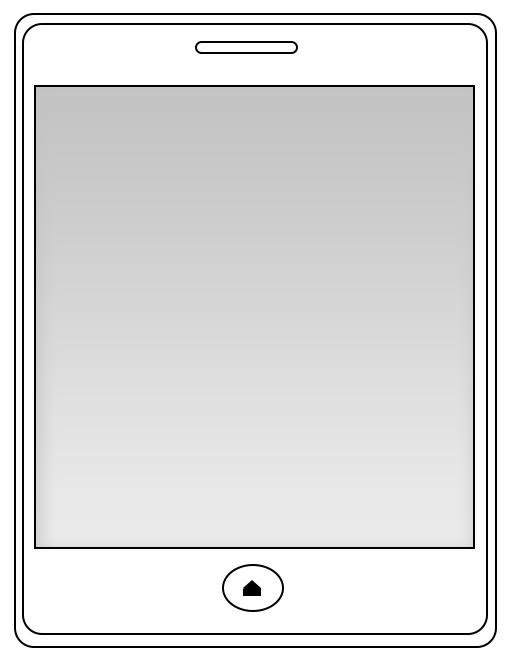
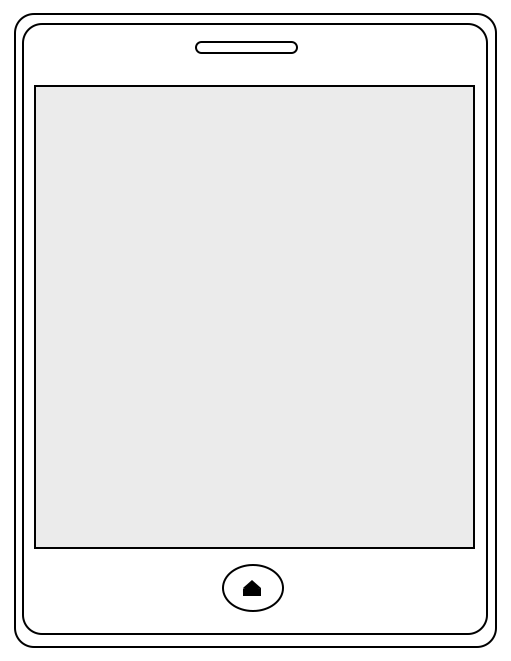
added mobile and tablet to device

Changed region(s): [[0.0587, 0.121, 0.9393, 0.6657]]

diff --git a/js/search.js b/js/search.js
@@ -4,7 +4,7 @@
                                "button bar", "search", "section title", "checkbox", 
                                "radio button", "combobox", "accordion", "tab bar", "link bar",
                                "vertical tab", "table", "format bar", "menu", "text box", 
-                               "date picker", "list", "date stepper", 'mobile'];
+                               "date picker", "list", "date stepper", 'mobile', 'tablet'];
 
         var associatedDivIds = new Array();
         associatedDivIds["button"] = "drag_button";
@@ -29,6 +29,7 @@
         associatedDivIds["list"] = "drag_list";
         associatedDivIds["date stepper"] = "drag_date_stepper";
         associatedDivIds["mobile"] = "drag_mobile";
+        associatedDivIds["tablet"] = "drag_tablet";
 
 
          var selected = "";
@@ -36,6 +37,7 @@
          // Determine if the sequence the user entered is in the array
          function findSequence(s)
          {
+            s = s.toLowerCase();
          	if( s.charAt(0) === " " || s === "" ) 
          		return "";
 

diff --git a/wireframe.html b/wireframe.html
@@ -332,12 +332,21 @@
             
             <!-- Mobile -->
             <div id="drag_mobile" class="draggable element1" draggable="true">
-            <div class="resizeable" data-default-width="150" data-default-height="150" data-category="all image">
+            <div class="resizeable" data-default-width="150" data-default-height="150" data-category="all device">
                 <div id="libMobile" data-lib-width="150" data-lib-height="150">
                 </div>
                 <div class="title">Mobile</div>
             </div>
               </div>
+
+             <!-- Tablet -->
+             <div id="drag_tablet" class="draggable element1" draggable="true">
+             <div class="resizeable" data-default-width="150" data-default-height="150" data-category="all device">
+                 <div id="libTablet" data-lib-width="150" data-lib-height="150">
+                 </div>
+                 <div class="title">Tablet</div>
+             </div>
+               </div>
 
 		        <!-- menu -->
 		    		<!-- Format Bar -->

diff --git a/css/wireframe.css b/css/wireframe.css
@@ -666,14 +666,20 @@ section#canvas > section#pad{
 {
 	width: 100px;
 	height: 70px;
-	border: 2px solid black;
 	background-image: url("../mobile.png");
 	background-repeat: no-repeat;
 	background-position: center;
 	background-size: 60px 70px;
-	background-color:#EEE;	
 }
-
+#libTablet
+{
+	width: 100px;
+	height: 70px;
+	background-image: url("../mobile.png");
+	background-repeat: no-repeat;
+	background-position: center;
+	background-size: 100px 70px;
+}
 
 
 #elementContainer {
